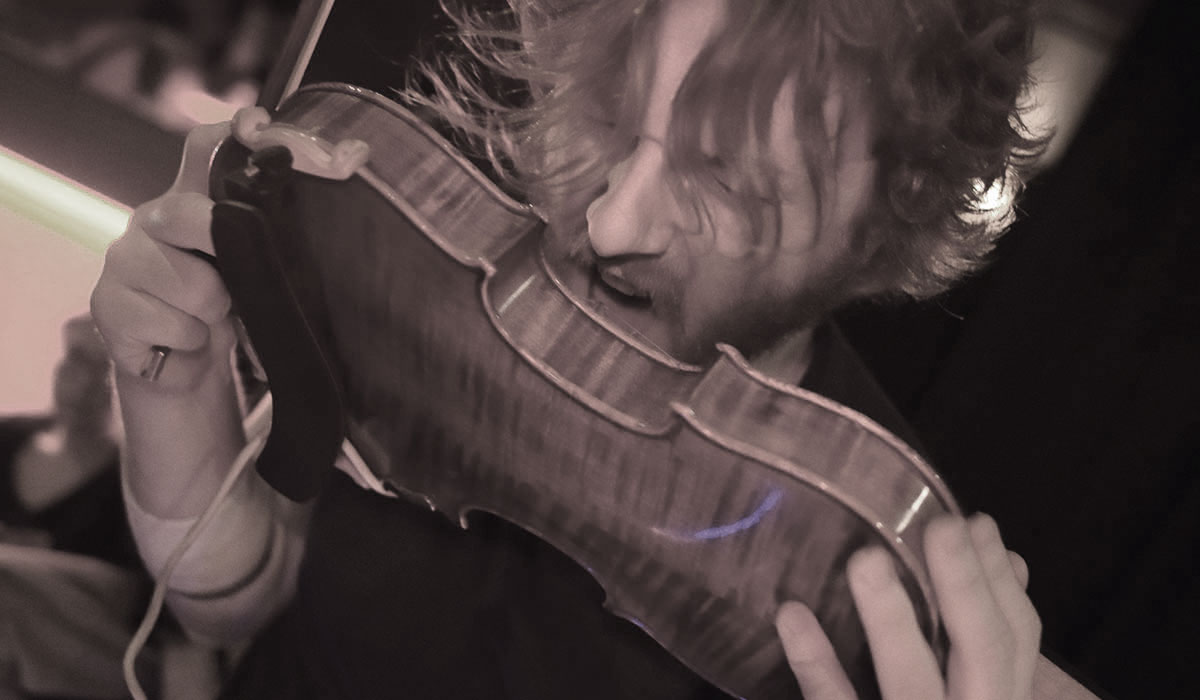
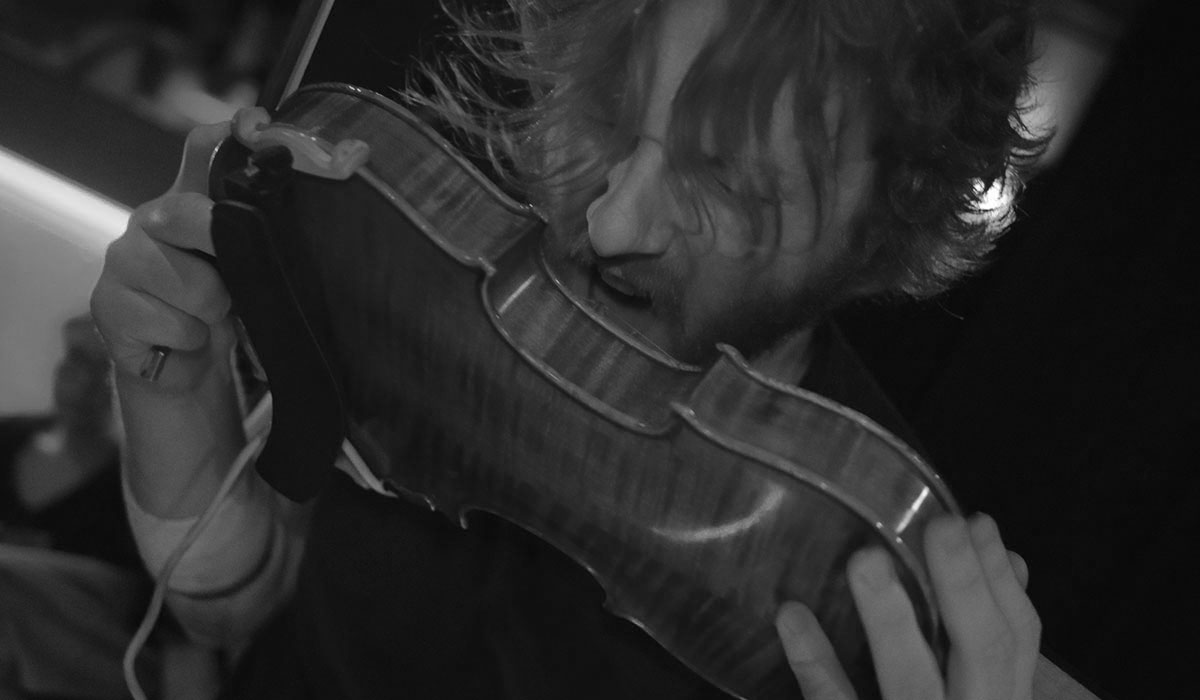
mad

diff --git a/new/index.html b/new/index.html
@@ -77,7 +77,8 @@
                 <!-- Set the first background image using inline CSS below. -->
                 <div class="fill" style="background-image:url('img/1200x700-Baby-G-BW-DSC_0132.jpg');"></div>
                 <div class="carousel-caption well">
-                    <a href="#music"><h2>SEE THE MUSIC</h2></a>
+                    <img src="img/400x400-audio-27582_960_720.png" alt="400x400-audio-27582_960_720" width="200" height="200">
+                    <a href="#music"><h2>LISTEN TO THE MUSIC</h2></a>
                     <p>ETC. Live At The Inter</p>
                     <p>Recorded live upstairs at The International Bar, Wicklow St, Dublin, Ireland.</p>
                     <p>It is a long established fact that a reader will be distracted by the readable content of a page when looking at its layout.</p>
@@ -87,6 +88,8 @@
                 <!-- Set the second background image using inline CSS below. -->
                 <div class="fill" style="background-image:url('img/1200x700-Fin-BW-DSC_0128.jpg');"></div>
                 <div class="carousel-caption well">
+
+                    <img src="img/400x400-microphone-307365_960_720.png" alt="400x400-microphone-307365_960_720" width="200" height="200">
                     <a href="#gigs"><h2>UPCOMING GIG'S</h2></a>
                     <p>Live music; we love it! </p>
                     <p>It is a long established fact that a reader will be distracted by the readable content of a page when looking at its layout.</p>
@@ -94,8 +97,10 @@
             </div>
             <div class="item">
                 <!-- Set the third background image using inline CSS below. -->
-                <div class="fill" style="background-image:url('img/1200x700-Bad-Ass-Bass-BW-DSC_0044.jpg');"></div>
+                <div class="fill" style="background-image:url('img/1200x700-Filth-BW-DSC_0126.jpg');"></div>
                 <div class="carousel-caption well">
+
+	                <img src="img/400x400-contact-1.png" alt="400x400-contact-1" width="200" height="200">
 	                <a href="#contact"><h2>CONTACT US!</h2></a>
 	                <P>We want to here from you.</P>
                     <p>It is a long established fact that a reader will be distracted by the readable content of a page when looking at its layout. It is a long established fact that a reader will be distracted by the readable content of a page when looking at its layout.</p>
@@ -120,7 +125,7 @@
               <!-- Example row of columns -->
       <div class="row">
         <div class="col-sm-4">
-        <div class="well well-sm">
+        <div class="well well-sm cd-lati">
                   <strong>ETC.</strong>
                   <img src="img/illustration-of-a-music-record-400px.png" class="img-responsive" />
            <audio id="01ETC" controls preload="none">
@@ -132,7 +137,7 @@ Your browser does not support the audio element.
         </div>
 
         <div class="col-sm-4">
-        <div class="well well-sm">
+        <div class="well well-sm cd-lati">
           <strong>A Million Other Lives</strong>
                   <img src="img/illustration-of-a-music-record-400px.png" class="img-responsive" />
            <audio id="02AMillionOtherLives" controls preload="none">
@@ -144,7 +149,7 @@ Your browser does not support the audio element.
         </div>
 
         <div class="col-sm-4">
-        <div class="well well-sm">
+        <div class="well well-sm cd-lati">
           <strong>Bring My Island To The Coast</strong>
           <img src="img/illustration-of-a-music-record-400px.png" class="img-responsive" />
            <audio id="03BringMyIslandToTheCoast" controls preload="none">
@@ -158,7 +163,7 @@ Your browser does not support the audio element.
               <!-- Example row of columns -->
       <div class="row">
         <div class="col-sm-4">
-        <div class="well well-sm">
+        <div class="well well-sm cd-lati">
                   <strong>Fuck Your Selfie</strong>
                   <img src="img/illustration-of-a-music-record-400px.png" class="img-responsive" />
            <audio id="04FuckYourSelfie" controls preload="none">
@@ -170,7 +175,7 @@ Your browser does not support the audio element.
         </div>
 
         <div class="col-sm-4">
-        <div class="well well-sm">
+        <div class="well well-sm cd-lati">
           <strong>Sucker For Reaction</strong>
           <img src="img/illustration-of-a-music-record-400px.png" class="img-responsive" />
            <audio id="05SuckerForReaction" controls preload="none">
@@ -182,7 +187,7 @@ Your browser does not support the audio element.
        </div>
 
         <div class="col-sm-4">
-        <div class="well well-sm">
+        <div class="well well-sm cd-lati">
           <strong>I Don't Think So</strong>
           <img src="img/illustration-of-a-music-record-400px.png" class="img-responsive" />
            <audio id="06IDontThinkSo" controls preload="none">
@@ -196,7 +201,7 @@ Your browser does not support the audio element.
               <!-- Example row of columns -->
       <div class="row">
         <div class="col-sm-4">
-        <div class="well well-sm">
+        <div class="well well-sm cd-lati">
           <strong>No Smoking Please</strong>
           <img src="img/illustration-of-a-music-record-400px.png" class="img-responsive" />
            <audio id="07NoSmokingPlease" controls preload="none">
@@ -208,7 +213,7 @@ Your browser does not support the audio element.
         </div>
 
         <div class="col-sm-4">
-        <div class="well well-sm">
+        <div class="well well-sm cd-lati">
           <strong>Coffee And Sun Shine</strong>
           <img src="img/illustration-of-a-music-record-400px.png" class="img-responsive" />
            <audio id="08CoffeeAndSunShine" controls preload="none">
@@ -220,7 +225,7 @@ Your browser does not support the audio element.
        </div>
 
         <div class="col-sm-4">
-        <div class="well well-sm">
+        <div class="well well-sm cd-lati">
           <strong>Someone Else's Future</strong>
           <img src="img/illustration-of-a-music-record-400px.png" class="img-responsive" />
            <audio id="09SomeOneElsesFuture" controls preload="none">

diff --git a/new/css/main.css b/new/css/main.css
@@ -21,7 +21,7 @@
   .person:hover {
       border-color: #f1f1f1;
   }
-  .carousel-inner img {
+  .carousel-inner fill img {
       -webkit-filter: grayscale(90%);
       filter: grayscale(90%); /* make all photos black and white */ 
       width: 100%; /* Set width to 100% */
@@ -249,3 +249,13 @@ footer {
 #music strong {
 	color: black;
 }
+
+/* Live At The Inter CDs */
+/*
+.cd-lati {
+	background-image: url(../img/illustration-of-a-music-record-400px.png);
+	background-position: center top;
+	background-size:  contain;
+	background-repeat: no-repeat;
+}
+*/
